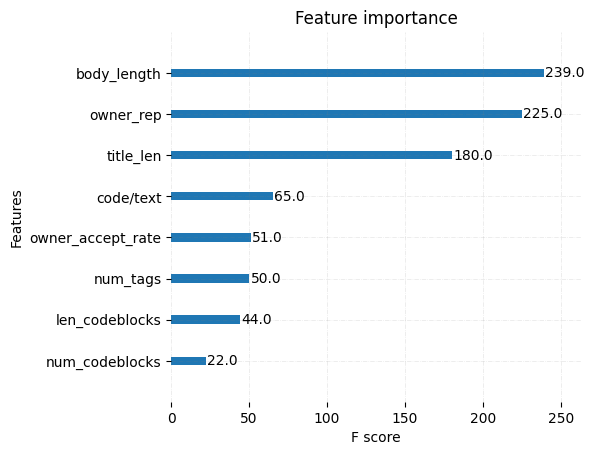
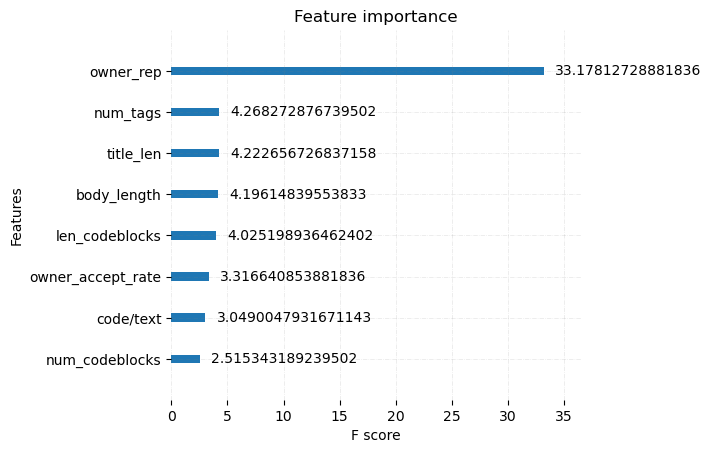
tuned and updated XGboost with new dataset

diff --git a/code/Boost/xgboosting.py b/code/Boost/xgboosting.py
@@ -27,9 +27,9 @@ data_dmatrix = xgb.DMatrix(data = train, label = good_score)
 #setting XGBoost classifier parameters (might want to research how to optimize these)
 params = {
             'objective':'binary:logistic',
-            'max_depth': 12,
+            'max_depth': 4,
             'alpha': 10,
-            'learning_rate': 1.0,
+            'learning_rate': 0.1,
             'base_score':0.5,
             'booster':'gbtree',
             'colsample_bylevel':1,
@@ -64,7 +64,7 @@ print("Accuracy: %.2f%% (%.2f%%)" % (results.mean()*100, results.std()*100))
 
 #print('XGBoost model accuracy score: {0:0.4f}'. format(accuracy_score(test_good_score, y_pred)))
 
-xgb.plot_importance(xgb_clf)
+xgb.plot_importance(xgb_clf,importance_type='gain')
 
 
 for s in ['top', 'bottom', 'left', 'right']:
